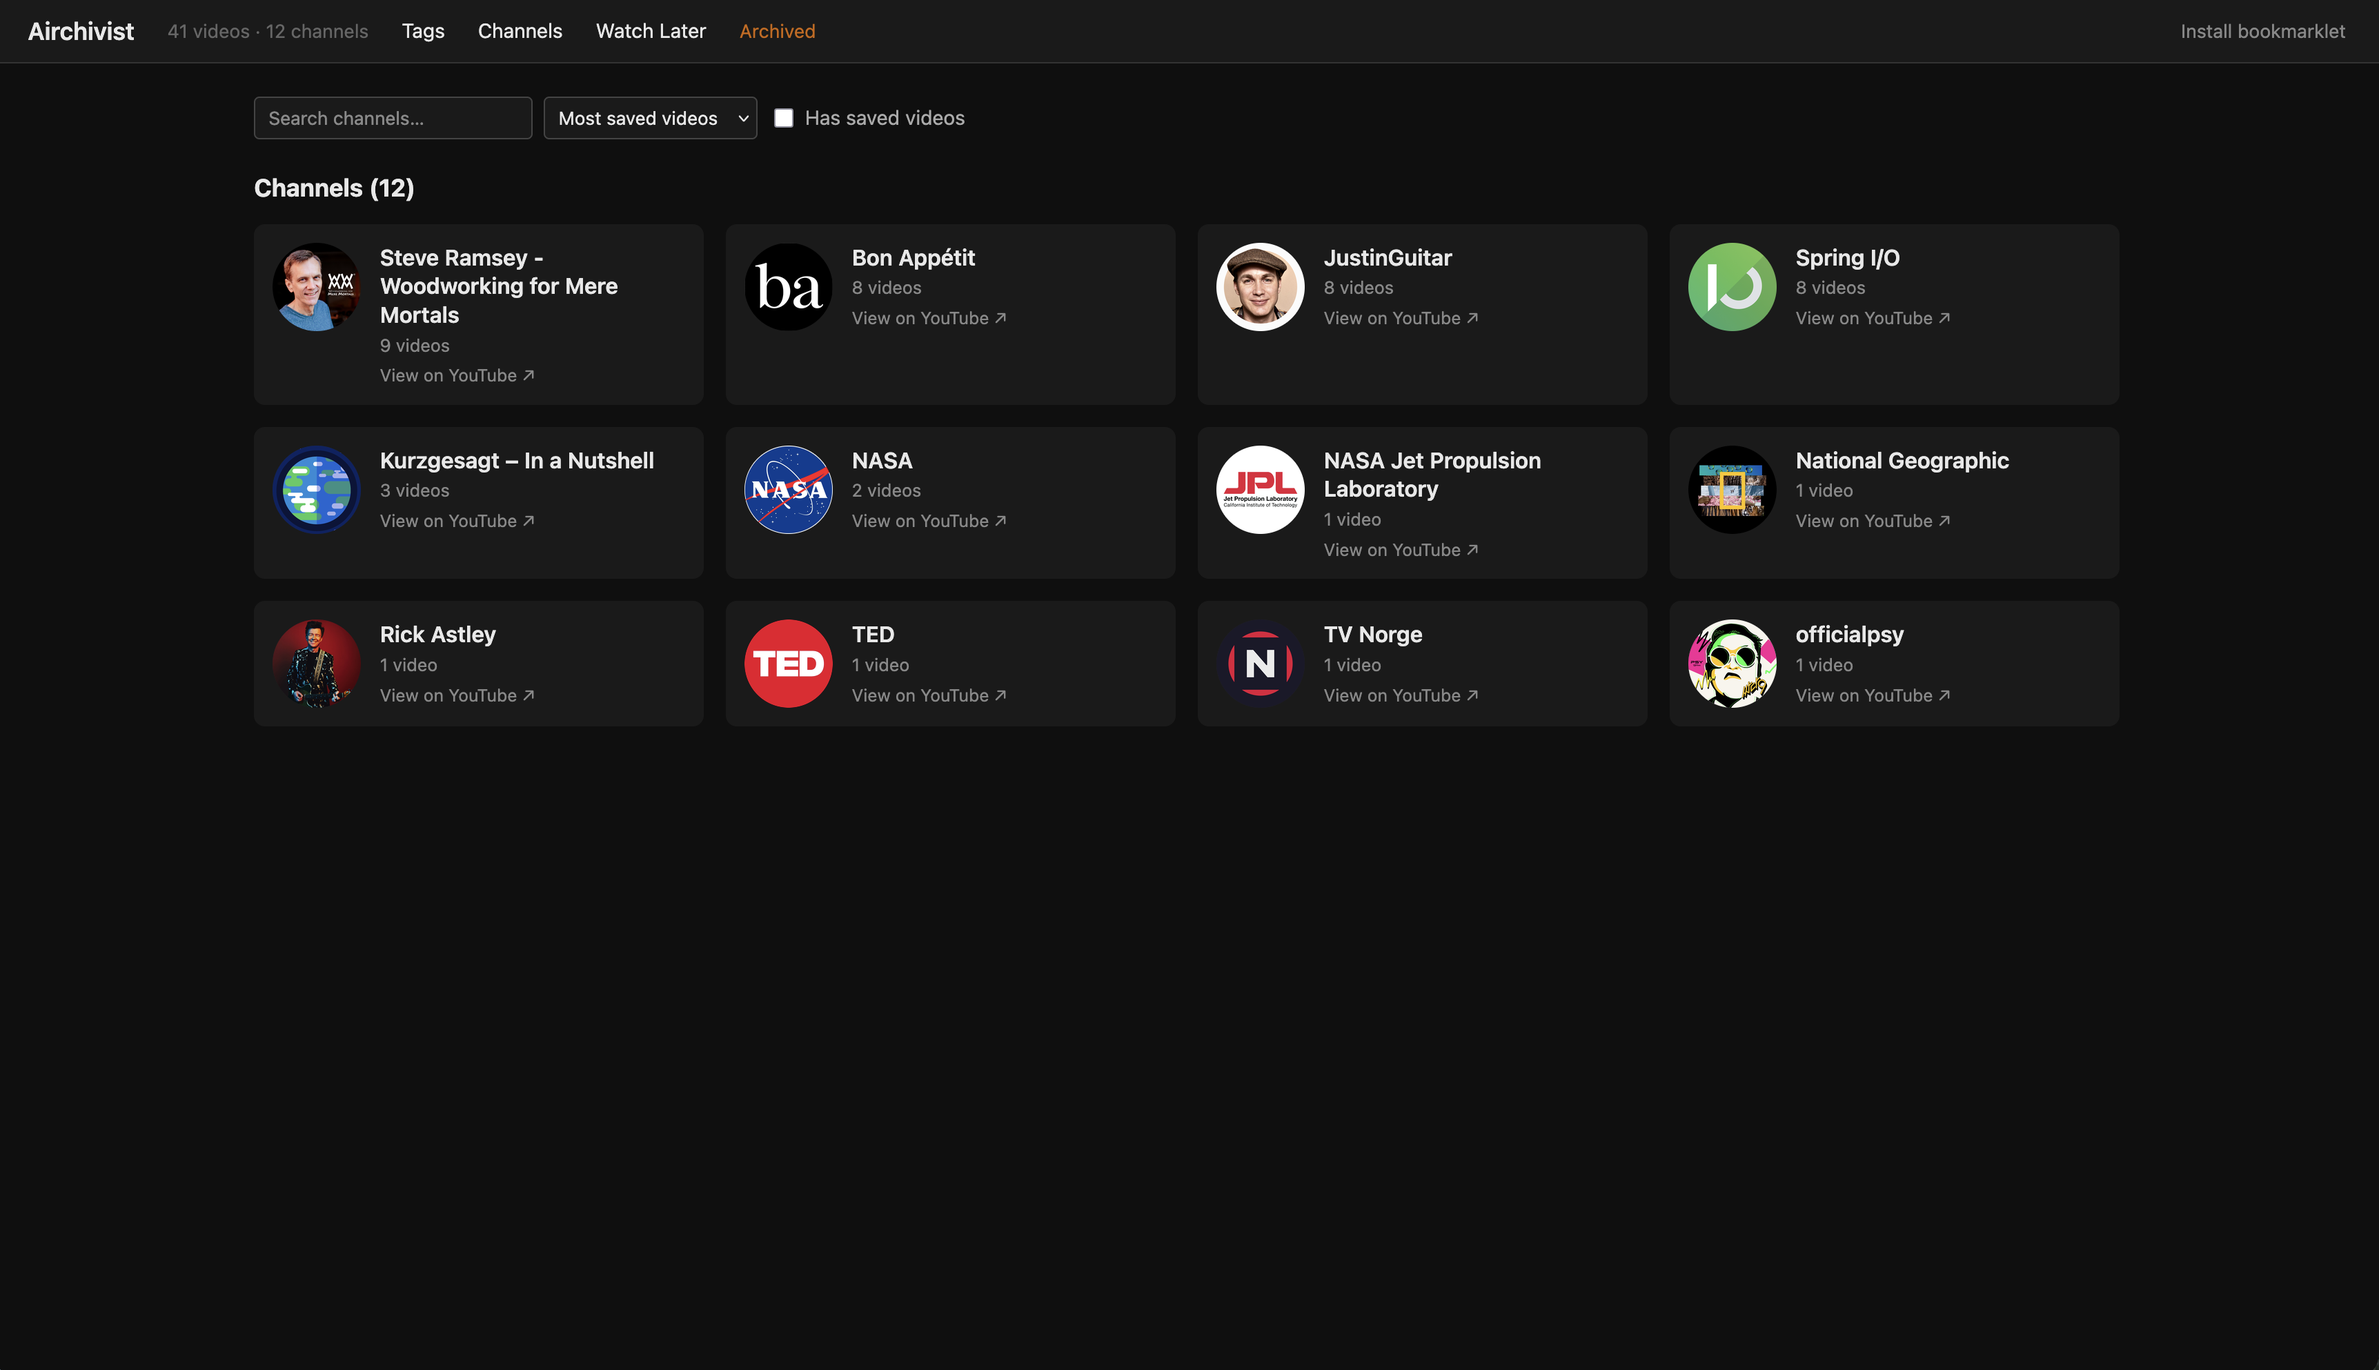
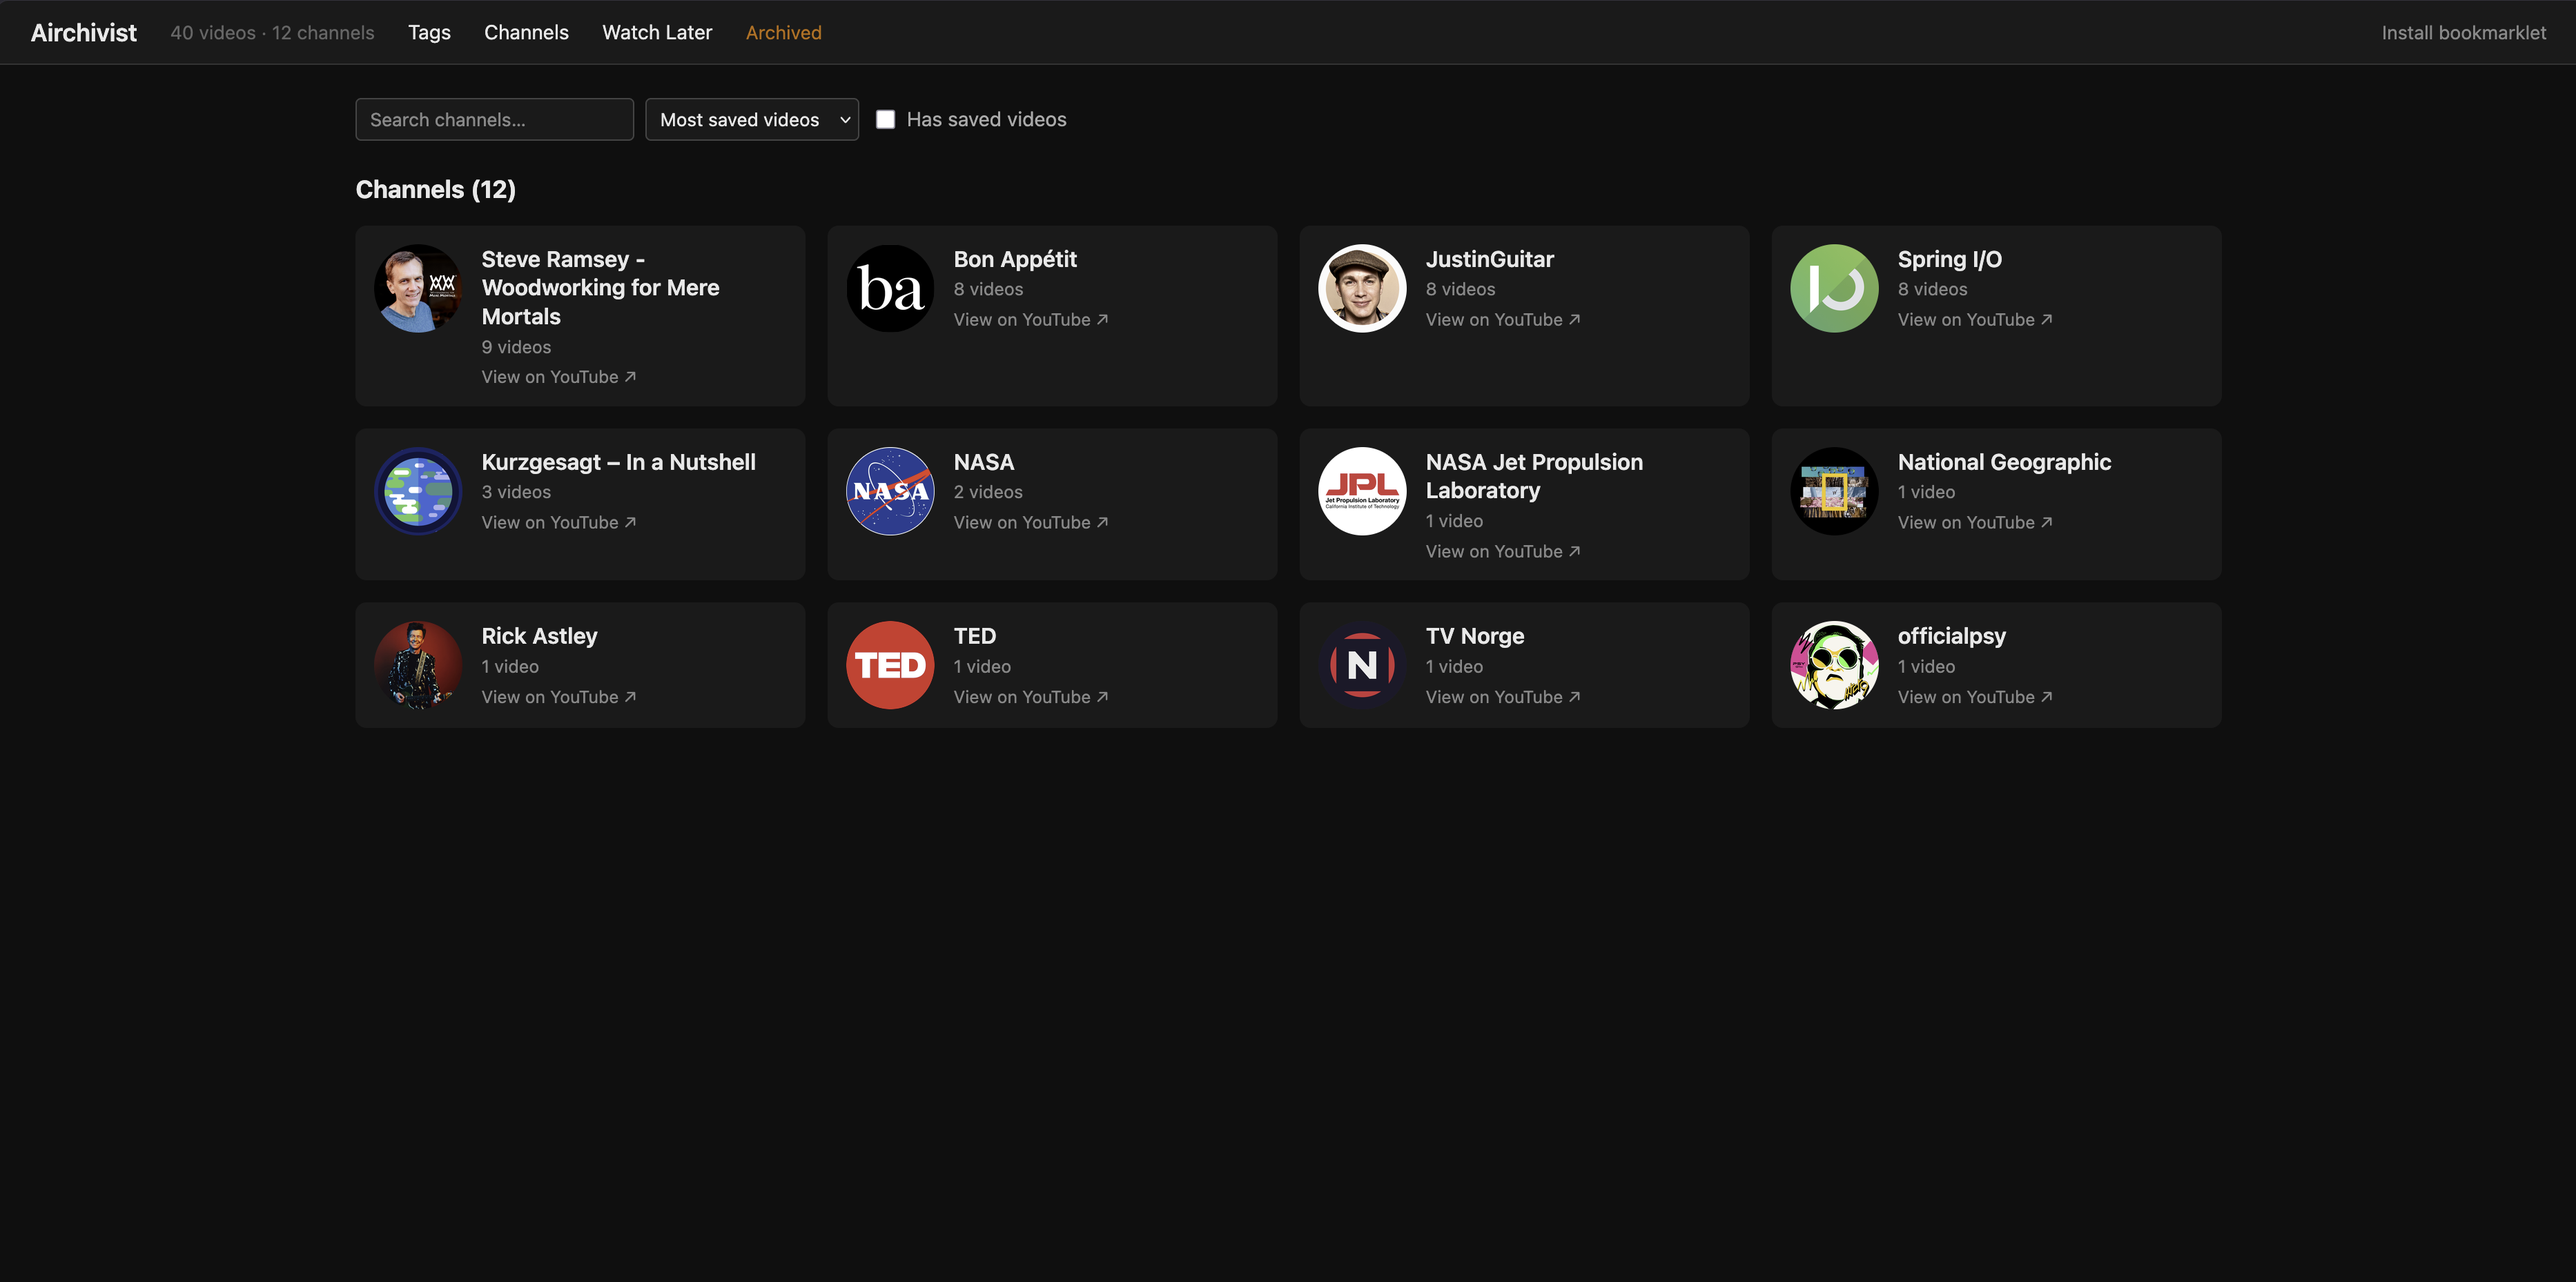
fix: keep The Egg hidden in demo seed; move it out of watch-later instead
Correction to the previous fix: hiding a demo video is supposed to be
h6fcK_fRYaI ("The Egg"), not a swap to a different video. The actual
conflict was with WATCH_LATER_VIDEO_IDS — hide_video() removes a hidden
video from watch_later as real app behavior, so keeping it in both lists
silently seeded one short. Removed it from the watch-later list instead
(replaced with sNhhvQGsMEc, another Kurzgesagt video, to preserve the
queue's intentional 4-watched/4-unwatched mix) and reverted
HIDDEN_VIDEO_IDS to h6fcK_fRYaI. Updated the watch-later order test to
match.

Verified demo-screenshots/airchivist.png and favorites.png are unaffected
(they already reflected this exact state). Retook channels.png, which had
an unrelated pre-existing staleness (header read "41 videos" vs. the
other two pages' "40 videos" — never updated after the 2026-08-24
hidden-count bump).

Claude-Session: https://claude.ai/code/session_011dkpEovQgQPTUMtibHWWQR

diff --git a/scripts/seed_demo_db.py b/scripts/seed_demo_db.py
@@ -153,11 +153,15 @@ FAVORITE_VIDEO_IDS = [
 # same "already watched" checkmark looks repetitive for a demo. 4 of these overlap with
 # WATCHED_VIDEO_IDS (queued-and-watched is a valid real state); 4 don't.
 WATCH_LATER_VIDEO_IDS = [
-    "pYDMhBVspIY", "KnLJ-vFsjwE", "_QCt3UBTS1Y", "h6fcK_fRYaI",
+    "pYDMhBVspIY", "KnLJ-vFsjwE", "_QCt3UBTS1Y", "sNhhvQGsMEc",
     "4czjS9h4Fpg", "zfBkJggF9aU", "mvDj7DF1jsk", "iG9CE55wbtY",
 ]
 
-HIDDEN_VIDEO_IDS = ["QXQiGS9CL20", "YGpK6U56oHM", "XiOJRhikCBg", "zO-bktrLju8"]
+# h6fcK_fRYaI ("The Egg") is favorited, watched, and hidden below, but deliberately
+# NOT here — hide_video() removes a hidden video from watch_later as real production
+# behavior, so keeping it in both lists would just have this list silently seed one
+# short. sNhhvQGsMEc (also Kurzgesagt) fills the "watched" slot instead.
+HIDDEN_VIDEO_IDS = ["QXQiGS9CL20", "YGpK6U56oHM", "XiOJRhikCBg", "h6fcK_fRYaI"]
 
 # Previously-watched videos, spread from 2 weeks to ~17 months ago so the Rediscover
 # shelf has a real least-recently-viewed pool to draw from, not 1-2 eligible videos.

diff --git a/tests/scripts/test_seed_demo_db.py b/tests/scripts/test_seed_demo_db.py
@@ -100,7 +100,7 @@ class TestSeedEngagement:
             ORDER BY w.position
         """).fetchall()
         assert [r[0] for r in rows] == [
-            "pYDMhBVspIY", "KnLJ-vFsjwE", "_QCt3UBTS1Y", "h6fcK_fRYaI",
+            "pYDMhBVspIY", "KnLJ-vFsjwE", "_QCt3UBTS1Y", "sNhhvQGsMEc",
             "4czjS9h4Fpg", "zfBkJggF9aU", "mvDj7DF1jsk", "iG9CE55wbtY",
         ]
 

diff --git a/CHANGELOG.md b/CHANGELOG.md
@@ -36,6 +36,21 @@ previously-unengaged video (`zO-bktrLju8`) for the new hidden entry instead, and
   list already declared in `pyproject.toml` — not addressed here, since consolidating them
   was out of scope for this fix.
 
+**Follow-up**: swapping the hidden video was the wrong fix — `h6fcK_fRYaI` ("The Egg") is
+supposed to stay hidden in the demo. Reverted `HIDDEN_VIDEO_IDS` to `h6fcK_fRYaI` and
+instead removed it from `WATCH_LATER_VIDEO_IDS` (replaced with `sNhhvQGsMEc`, another
+Kurzgesagt video, to keep the queue's intentional 4-watched/4-unwatched mix), since it's
+the *watch-later* membership that conflicts with hiding, not the hidden status itself.
+Verified this also restores `demo-screenshots/airchivist.png` and `favorites.png` to
+matching the seed data exactly again (both were already accurate — the earlier fix would
+have made them stale), so only `demo-screenshots/channels.png` needed a refresh — it had
+an unrelated pre-existing staleness (header read "41 videos" vs. the other two pages'
+"40 videos", from never being retaken after the 2026-08-24 hidden-count bump). Regenerating
+that screenshot via browser automation hit a separate limitation: the tool's fetch sandbox
+blocks requests to the channel avatar CDN URLs (`yt3.googleusercontent.com/...`) as
+"[BLOCKED: Cookie/query string data]", a deliberate privacy guard, not a bug — so a
+same-quality replacement needs to be captured manually rather than through automation.
+
 ### docs: fix changelog ordering and remove a stray empty header
 
 A consistency check found this file's ordering was split in two: everything from
